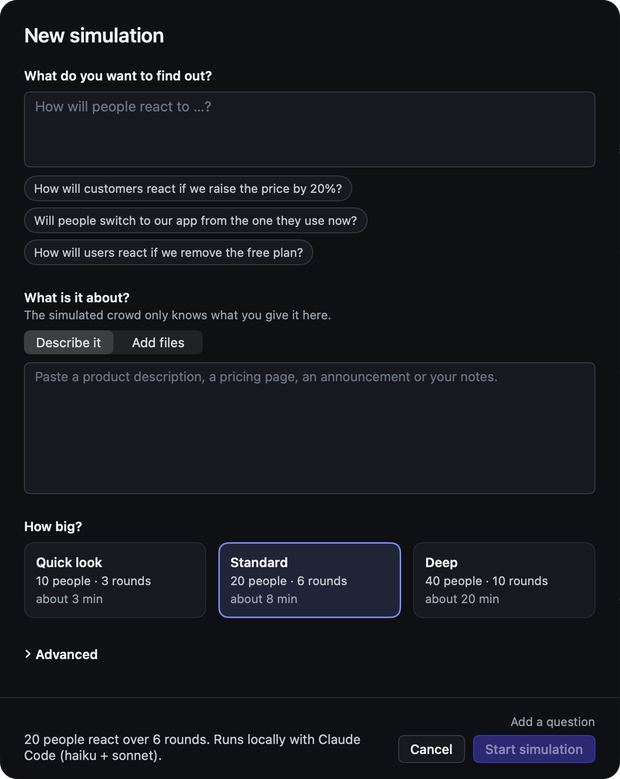
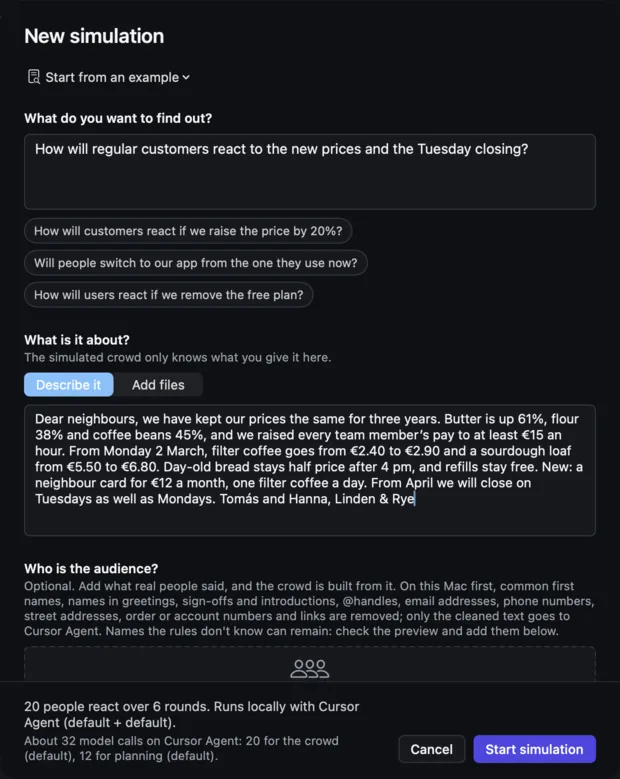
Site: app screenshots from Tellfold 0.7.0
The four app images on the page dated from 8 November, before 0.5.0: the old
Mossbook run, the report without first reactions or the citation check, and a
New simulation sheet without the audience step. They are now captured from the
0.7.0 release build, on a run of the Linden & Rye cafe example (12 people,
4 rounds), at the same sizes. Alt text and captions describe the new images.

diff --git a/site/index.html b/site/index.html
@@ -78,8 +78,8 @@
     <p class="reqs">Free. macOS 15 or later on Apple silicon, with an AI tool signed in: Claude Code, Codex, Gemini CLI, Cursor, Ollama and more.</p>
   </div>
   <figure class="hero-shot">
-    <img class="shot" src="assets/img/app-window-3098.webp" srcset="assets/img/app-window-1549.webp 1549w, assets/img/app-window-3098.webp 3098w" sizes="(max-width: 1100px) 100vw, 1040px" width="3098" height="2022" alt="The Tellfold app showing a finished run. Question: How will existing Mossbook users react to the switch to subscription pricing? Verdict: Existing users accept offer but question long-term subscription model, medium confidence. Six people, two rounds, seven posts, final sentiment +0.23. Below, the crowd graph and a sentiment chart falling from +0.65 to +0.20 and ending at +0.23.">
-    <figcaption>The Mossbook pricing example that ships with Tellfold, in the real app. Six simulated people, two rounds after the announcement.</figcaption>
+    <img class="shot" src="assets/img/app-window-3098.webp" srcset="assets/img/app-window-1549.webp 1549w, assets/img/app-window-3098.webp 3098w" sizes="(max-width: 1100px) 100vw, 1040px" width="3098" height="2022" alt="The Tellfold app showing a finished run. Question: How will regular customers react to the new prices and the Tuesday closing? Verdict: Regulars broadly accept Linden &amp; Rye’s price rise and Tuesday closure, medium confidence. 7 of 9 individual regulars’ first posts were favourable; the one objection is about Tuesday. Twelve people, four rounds, fourteen posts, final sentiment +0.55. Below, the crowd split into five camps and a sentiment chart rising from +0.40 to +0.62 and settling at +0.55.">
+    <figcaption>A run on the Linden &amp; Rye café example, made with Tellfold 0.7.0. Twelve simulated people, four rounds.</figcaption>
   </figure>
 </section>
 
@@ -132,8 +132,8 @@
         <p>What do you want to find out, what is it about, and how big should the crowd be. Add a letter, a plan or an announcement, or just paste the text.</p>
       </div>
       <figure class="step-shot step-shot-sheet reveal">
-        <img class="shot" src="assets/img/app-new-1241.webp" srcset="assets/img/app-new-620.webp 620w, assets/img/app-new-1241.webp 1241w" sizes="(max-width: 460px) 90vw, 420px" width="1241" height="1559" loading="lazy" alt="The New simulation sheet in Tellfold. It asks what you want to find out, with suggested questions such as: How will customers react if we raise the price by 20%? Then what it is about, where you describe it or add files. Then how big: Quick look, 10 people and 3 rounds; Standard, 20 people and 6 rounds, selected; Deep, 40 people and 10 rounds.">
-        <figcaption>The New simulation sheet in Tellfold.</figcaption>
+        <img class="shot" src="assets/img/app-new-1241.webp" srcset="assets/img/app-new-620.webp 620w, assets/img/app-new-1241.webp 1241w" sizes="(max-width: 460px) 90vw, 420px" width="1241" height="1559" loading="lazy" alt="The New simulation sheet in Tellfold, filled in. What do you want to find out: How will regular customers react to the new prices and the Tuesday closing? What is it about: the café’s note, pasted in, with the new prices for filter coffee and sourdough and the Tuesday closing. Below, Who is the audience, where you can add what real people have said, cleaned on the Mac first. At the bottom, the run size and an estimate of the model calls it will make.">
+        <figcaption>The New simulation sheet in Tellfold, with the café’s note pasted in.</figcaption>
       </figure>
     </li>
     <li class="step">
@@ -143,8 +143,8 @@
         <p>Each person has a private stance and a memory. Round by round they post, reply, repost, like and follow. Drop breaking news into a later round and see whether the mood turns.</p>
       </div>
       <figure class="step-shot step-shot-fade reveal">
-        <img class="shot" src="assets/img/app-crowd-2640.webp" srcset="assets/img/app-crowd-1320.webp 1320w, assets/img/app-crowd-2640.webp 2640w" sizes="(max-width: 1100px) 100vw, 1040px" width="2640" height="1390" loading="lazy" alt="The Crowd view in round 2 of the Mossbook run. On the left, the crowd graph links the organisations to four people. On the right, the round 2 feed: an event, a popular tech reviewer posts that the old lifetime licence will keep working offline forever, followed by replies from Mossbook Labs, Maria Chen and Jamal Williams.">
-        <figcaption>Round 2 of the Mossbook run: the breaking news, and who answered it.</figcaption>
+        <img class="shot" src="assets/img/app-crowd-2640.webp" srcset="assets/img/app-crowd-1320.webp 1320w, assets/img/app-crowd-2640.webp 2640w" sizes="(max-width: 1100px) 100vw, 1040px" width="2640" height="1390" loading="lazy" alt="The Crowd view in round 2 of the café run. On the left, the crowd graph groups people into camps: Accepted the trade-off, Budget-conscious but persuaded, Lost Tuesday routine and still annoyed, Indifferent, and the café owners explaining the changes. On the right, the round 2 feed: the café answers that the neighbour card works out cheaper for daily visitors, Hanna thanks Eleanor, and Jonah Fitzgerald asks why it had to be Tuesday.">
+        <figcaption>Round 2 of the café run: the owners answer, and the one regular who lost a Tuesday lunch break pushes back.</figcaption>
       </figure>
     </li>
     <li class="step">
@@ -154,8 +154,8 @@
         <p>The report leads with a verdict, how sure it is, and why. Every claim cites the posts and people behind it, and you can interview anyone in the crowd afterwards.</p>
       </div>
       <figure class="step-shot reveal">
-        <img class="shot" src="assets/img/app-report-2640.webp" srcset="assets/img/app-report-1320.webp 1320w, assets/img/app-report-2640.webp 2640w" sizes="(max-width: 1100px) 100vw, 1040px" width="2640" height="1680" loading="lazy" alt="The Report view: Existing Users Accept Offer but Question Long-Term Subscription Model. The summary and the prediction cite people such as @ines_okafor and @garden_collective_pm and posts such as #2 and #4. Medium confidence.">
-        <figcaption>The report for the Mossbook run.</figcaption>
+        <img class="shot" src="assets/img/app-report-2640.webp" srcset="assets/img/app-report-1320.webp 1320w, assets/img/app-report-2640.webp 2640w" sizes="(max-width: 1100px) 100vw, 1040px" width="2640" height="1680" loading="lazy" alt="The Report view: Regulars broadly accept Linden &amp; Rye’s price rise and Tuesday closure. The summary counts first reactions (7 in favour, 1 against, 1 neither) and cites people such as @dorotea_coffeefan and @jonah_soupguy and posts such as #10 and #12. The prediction box says all 186 citations were checked against the posts. Medium confidence.">
+        <figcaption>The report for the café run. Every citation is checked against the posts.</figcaption>
       </figure>
     </li>
   </ol>
